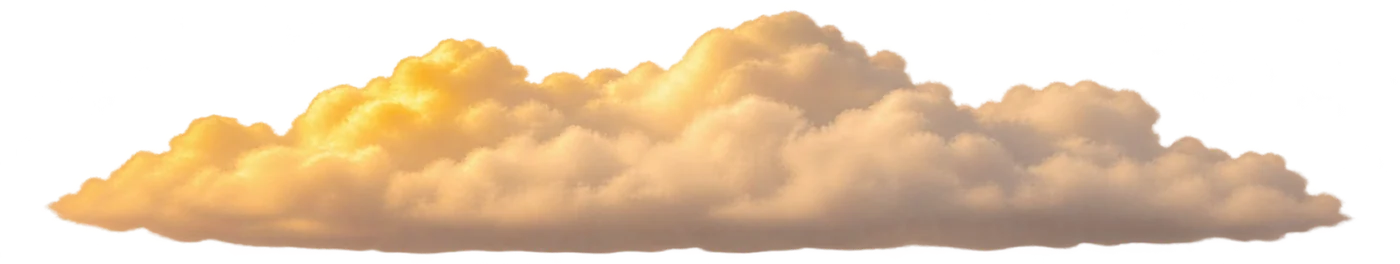
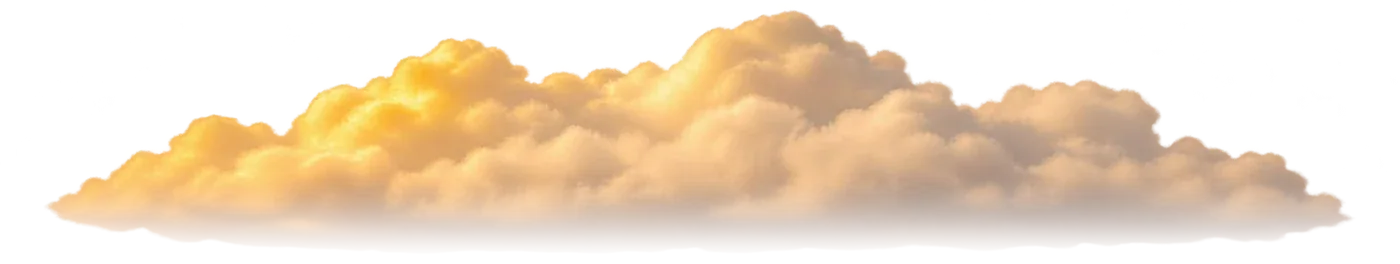
Landing review fixes: soft cloud-3 edge, measured header height, compass off lede, capped mobile phone, hide faded CTA from focus

Changed region(s): [[0.0307, 0.7273, 0.9829, 0.9697]]

diff --git a/src/components/marketing/landing/HeroStory.tsx b/src/components/marketing/landing/HeroStory.tsx
@@ -13,7 +13,7 @@ import { stateAt } from "./timeline";
 /* Props float around the phone. dx/dy (stage fractions) is where each one flies
    when the camera pushes in; they fade out as they go. */
 const PROPS = [
-  { src: "/images/traike/3d/compass.png", pos: "right-[4%] top-[26%] w-[78px] md:left-[54%] md:right-auto md:top-[8%] md:w-[130px]", dx: -0.1, dy: -0.25, fd: 7 },
+  { src: "/images/traike/3d/compass.png", pos: "right-[4%] top-[41%] w-[78px] md:left-[54%] md:right-auto md:top-[8%] md:w-[130px]", dx: -0.1, dy: -0.25, fd: 7 },
   { src: "/images/landing/prop-canteen.webp", pos: "left-[40%] bottom-[5%] w-[96px] md:w-[150px] max-md:hidden", dx: -0.25, dy: 0.2, fd: 8 },
   { src: "/images/landing/prop-binoculars.webp", pos: "right-[1%] bottom-[3%] w-[110px] md:w-[250px]", dx: 0.35, dy: 0.25, fd: 6 },
 ] as const;
@@ -61,6 +61,9 @@ export function HeroStory() {
     let raf = 0;
 
     const measure = () => {
+      // The shared header can wrap on narrow screens (80px at 360-390), so read it.
+      const HEADER = document.querySelector("header")?.offsetHeight ?? 64;
+      sec.style.setProperty("--hh", `${HEADER}px`);
       wrap.style.transform = "none";
       const s = stg.getBoundingClientRect();
       const b = box.getBoundingClientRect();
@@ -75,7 +78,6 @@ export function HeroStory() {
       S = Math.min(5, (H * 1.18) / screenH);
       tx = W / 2 - cx;
       ty = H / 2 - cy;
-      const HEADER = 64;
       docTop = sec.getBoundingClientRect().top + window.scrollY - HEADER;
       range = Math.max(1, sec.offsetHeight - H);
       const w = wrap.getBoundingClientRect();
@@ -93,6 +95,7 @@ export function HeroStory() {
       copy.current!.style.opacity = String(st.copyO);
       copy.current!.style.transform = `translate3d(0,${st.copyY}px,0)`;
       copy.current!.style.pointerEvents = st.copyO < 0.1 ? "none" : "auto";
+      copy.current!.style.visibility = st.copyO < 0.02 ? "hidden" : "visible";
       plate.current!.style.transform = `scale(${st.plateScale})`;
       wrap.style.transform = `translate3d(${tx * st.push}px,${ty * st.push}px,0) scale(${1 + (S - 1) * st.push})`;
       wrap.style.visibility = st.phoneVisible ? "visible" : "hidden";

diff --git a/src/components/marketing/landing/landing.module.css b/src/components/marketing/landing/landing.module.css
@@ -19,7 +19,8 @@
 .phoneBox {
   position: relative;
   container-type: inline-size;
-  width: min(80vw, 340px);
+  /* mobile: phone sits under the copy, so cap it to the stage height left over (small peek-crop is fine) */
+  width: min(80vw, 340px, calc((100svh - var(--hh, 64px) - 330px) * 0.65));
   aspect-ratio: 771 / 1357;
 }
 

diff --git a/scripts/landing/prep-assets.py b/scripts/landing/prep-assets.py
@@ -30,6 +30,10 @@ for f in sorted(glob.glob(f"{SRC}/lp-*.png")):
         x0, x1, y0, y1 = xs.min(), xs.max(), ys.min(), ys.max()
         padx, pady = int((x1 - x0) * 0.04), int((y1 - y0) * 0.04)
         im = im.crop((max(x0 - padx, 0), max(y0 - pady, 0), min(x1 + padx, im.width), min(y1 + pady, im.height)))
+        if base == "cloud-3":  # flat-cut bottom reads as a hard seam: fade it out
+            ar = np.asarray(im.getchannel("A")).astype(float)
+            t = np.clip((1 - np.arange(ar.shape[0]) / ar.shape[0]) / 0.35, 0, 1)[:, None]
+            im.putalpha(Image.fromarray((ar * t * t * (3 - 2 * t)).astype(np.uint8)))
         cap = 1400 if base.startswith("cloud-") else 900
         if im.width > cap:
             im = im.resize((cap, round(im.height * cap / im.width)), Image.LANCZOS)
